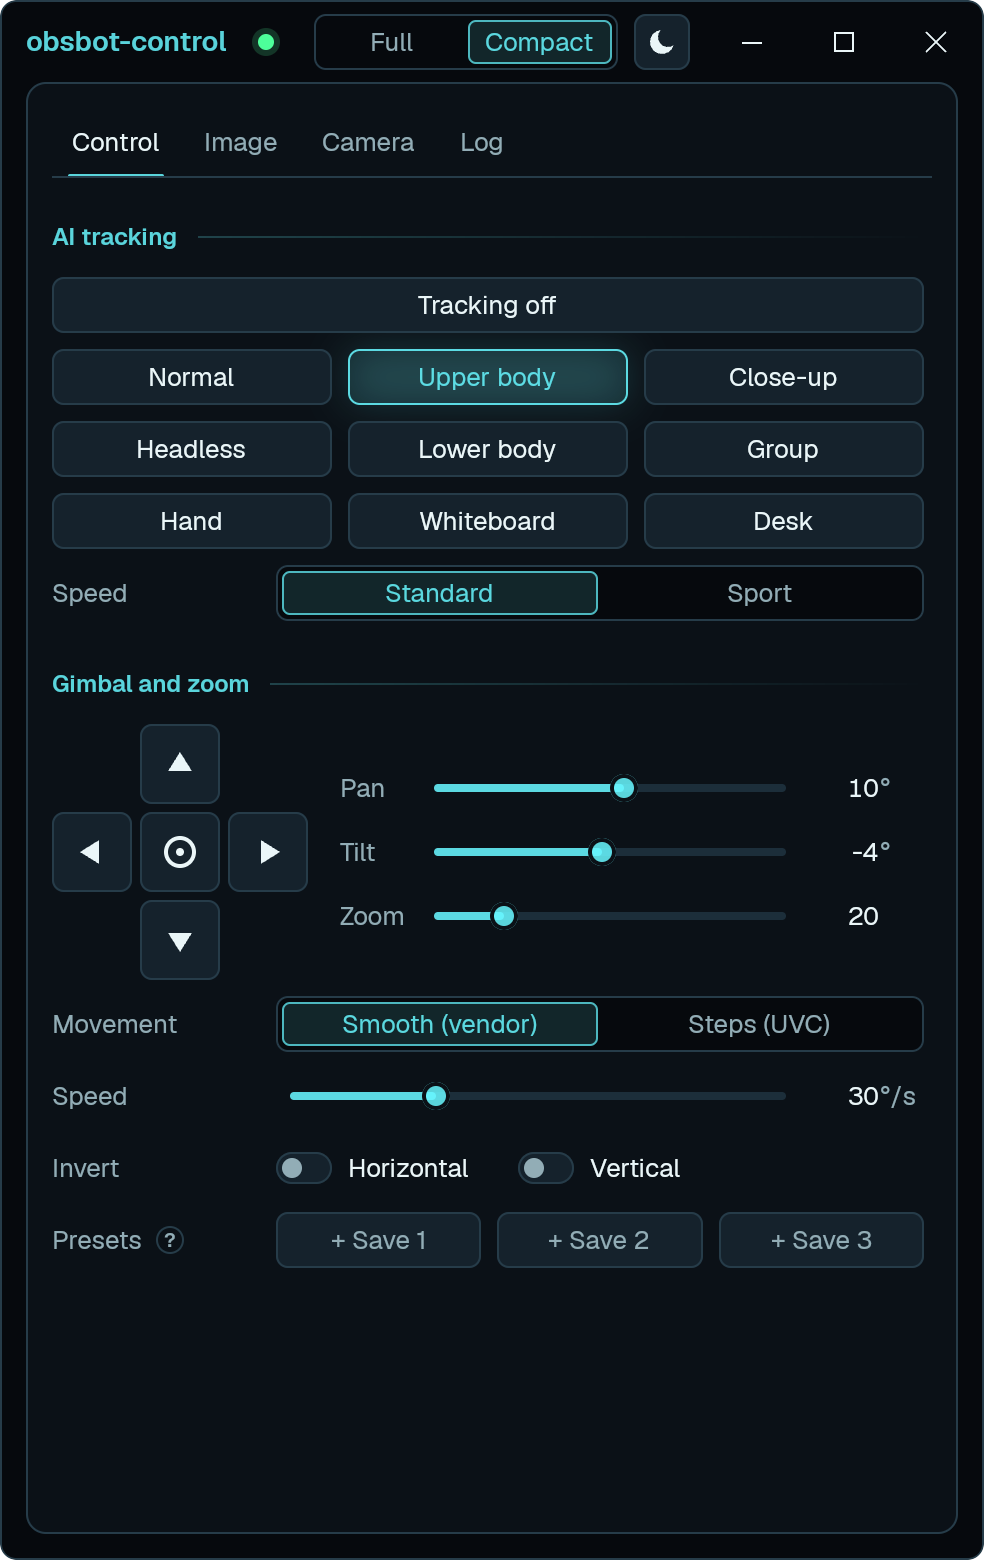
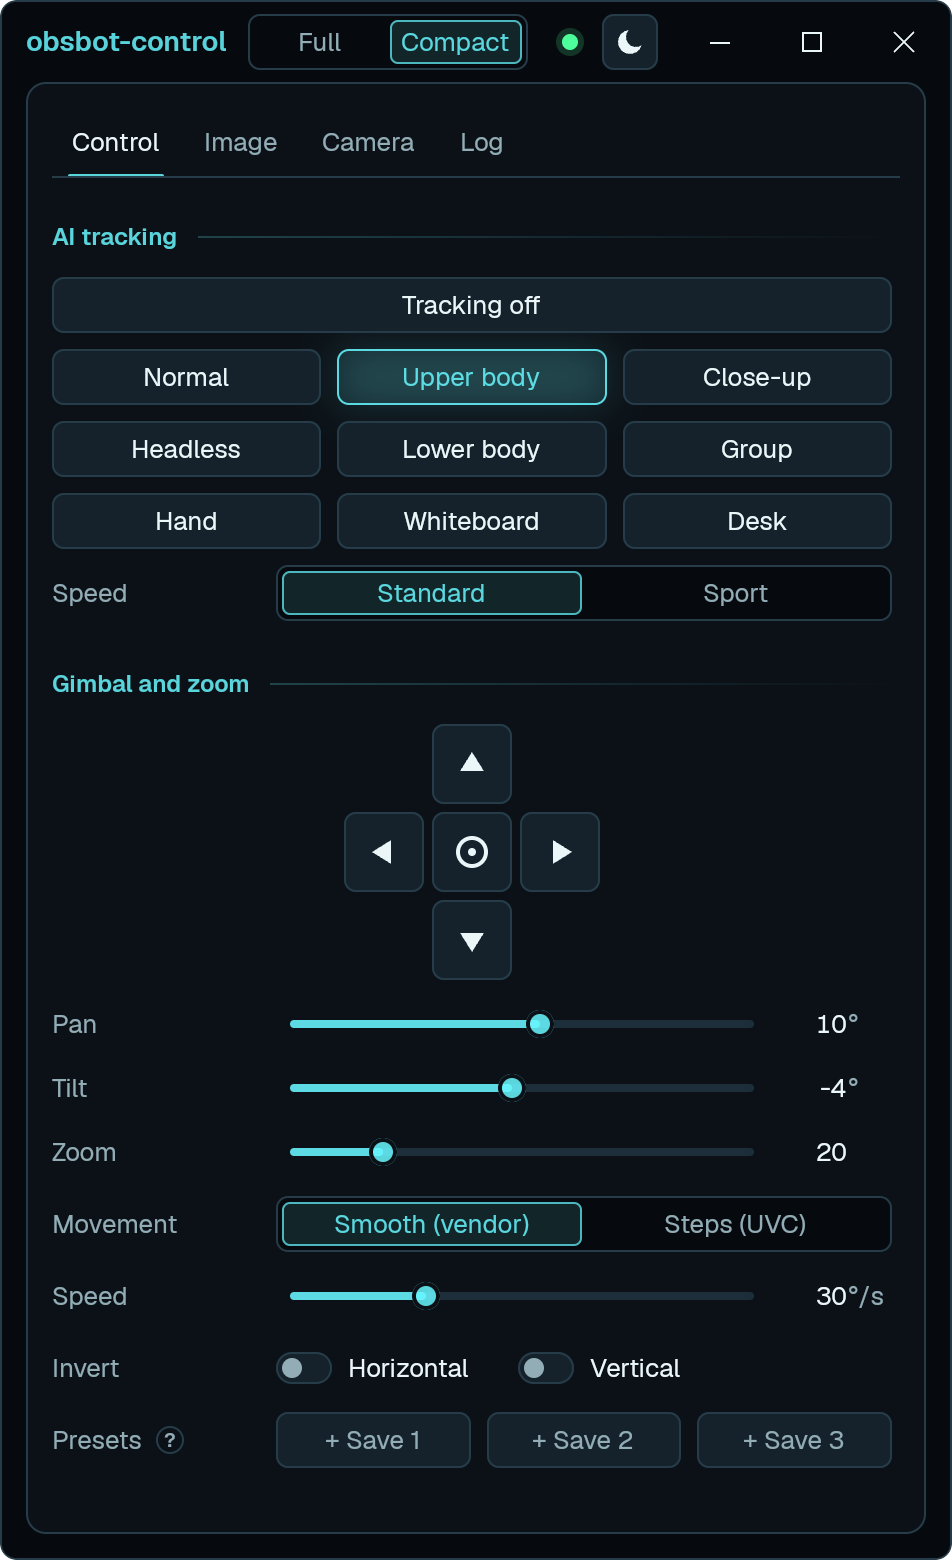
Put the controls on the left and narrow the panel
Switching between full and compact view moved the Full/Compact switch
away from the mouse: the window narrows from its right edge, and the
switch sat on the right of the header. The controls now sit on the
left with the preview on their right, and the switch sits just after
the app name, before the status (which changes width), so it stays in
the same place in both views. An app can't shrink its window from the left on
Wayland, so swapping the layout is the way that works everywhere.

Pan, tilt and zoom now sit below the arrow pad instead of beside it,
which fills the empty space at the bottom of the Control tab and lets
the panel shrink from 440 to 380 px. Compact view is 476 px wide, enough
for the whole header on one line.

README screenshots and the compact view checks in TESTING.md are
updated to match.

diff --git a/src/ui/mod.rs b/src/ui/mod.rs
@@ -786,7 +786,7 @@ impl AppView {
         let row = div().flex().items_center().min_h(px(CONTROL_HEIGHT)).child(label_cell(
             SharedString::from(format!("label-{c:?}")),
             label,
-            COMPACT_LABEL_WIDTH,
+            LABEL_WIDTH,
             None,
         ));
         if !u.supported {
@@ -991,11 +991,39 @@ impl AppView {
         let connected = s.connected;
         let xu = s.xu;
 
+        let views = ["Full", "Compact"];
+        let view_tips = [
+            "Show the preview beside the controls.",
+            "Hide the preview and narrow the window to the controls. Turns on by itself while another app (Zoom, Discord, Teams...) is using the camera, and off again when it stops.",
+        ];
+        // On the left, like the controls: the window's left edge stays put when it
+        // narrows or widens, so the switch stays under the mouse (COMPACT_WIDTH leaves
+        // room for it). Occluded, so clicks here never start a window drag.
+        let view_switch = div().id("view-switch").flex_none().w(px(140.0)).flex().occlude().child(segmented(
+            "view",
+            &views,
+            &view_tips,
+            Some(self.compact as usize),
+            true,
+            cx.listener(|this, i: &usize, window, cx| {
+                let compact = *i == 1;
+                if compact != this.compact {
+                    this.policy.on_manual_toggle();
+                    this.set_compact(compact);
+                    // Straight away, not on the next tick, so the click feels instant
+                    // and the preview starts while it slides in.
+                    this.begin_transition(window, cx);
+                    this.manage_preview(window);
+                    cx.notify();
+                }
+            }),
+        ));
+
         let left = div()
             .flex()
             .flex_1()
             .items_center()
-            .gap(px(if narrow { 8.0 } else { 10.0 }))
+            .gap(px(10.0))
             .min_w(px(0.0))
             .overflow_hidden()
             .child(
@@ -1006,6 +1034,9 @@ impl AppView {
                     .text_size(px(WORDMARK_SIZE))
                     .child("obsbot-control"),
             )
+            // Before the status, whose width changes, so the switch sits in the same
+            // place in both views.
+            .child(view_switch)
             .child(if narrow {
                 // Occluded so Windows doesn't treat it as part of the drag area, which
                 // would stop its tooltip showing.
@@ -1025,11 +1056,6 @@ impl AppView {
                 )
             });
 
-        let views = ["Full", "Compact"];
-        let view_tips = [
-            "Show the preview beside the controls.",
-            "Hide the preview and narrow the window to the controls. Turns on by itself while another app (Zoom, Discord, Teams...) is using the camera, and off again when it stops.",
-        ];
         let sleep_tip = if asleep { "Wake the camera." } else { "Put the camera to sleep." };
         // Occluded, so clicks here never start a window drag.
         let right = div()
@@ -1040,25 +1066,6 @@ impl AppView {
             .gap(px(8.0))
             .occlude()
             .when(picker && !narrow, |d| d.child(self.device_picker(cx)))
-            .child(div().w(px(152.0)).flex().child(segmented(
-                "view",
-                &views,
-                &view_tips,
-                Some(self.compact as usize),
-                true,
-                cx.listener(|this, i: &usize, window, cx| {
-                    let compact = *i == 1;
-                    if compact != this.compact {
-                        this.policy.on_manual_toggle();
-                        this.set_compact(compact);
-                        // Straight away, not on the next tick, so the click feels instant
-                        // and the preview starts while it slides in.
-                        this.begin_transition(window, cx);
-                        this.manage_preview(window);
-                        cx.notify();
-                    }
-                }),
-            )))
             .when(connected, |d| {
                 let toggle = move |this: &mut Self| this.worker.set_sleep(!asleep);
                 // Narrow headers get a moon icon (amber while asleep) instead of words.
@@ -1370,12 +1377,13 @@ impl Render for AppView {
                     .flex_1()
                     .min_h(px(0.0))
                     .gap(px(GAP))
-                    .child(div().flex().flex_1().min_w(px(160.0)).child(preview))
                     .child(controls.w(px(PANEL_WIDTH)))
+                    .child(div().flex().flex_1().min_w(px(160.0)).child(preview))
             } else {
-                // Switching views: the controls panel grows or shrinks between its two
-                // widths while the preview, kept at its full-view width so nothing
-                // reflows, is uncovered or slid under it and fades.
+                // Switching views: the controls panel on the left grows or shrinks
+                // between its two widths while the preview on its right, kept at its
+                // full-view width so nothing reflows, is uncovered or covered by the
+                // window's right edge and fades.
                 // When the window resizes, the ends are its compact and full-view widths;
                 // when it's maximised, the controls fill the screen in compact view.
                 let inset = frame.horizontal_inset();
@@ -1389,6 +1397,8 @@ impl Render for AppView {
                     .flex()
                     .flex_1()
                     .min_h(px(0.0))
+                    .child(controls.w(px(controls_width)))
+                    .child(div().flex_none().w(px(GAP * shown)))
                     .child(
                         div()
                             .flex()
@@ -1398,8 +1408,6 @@ impl Render for AppView {
                             .opacity(shown)
                             .child(div().flex().flex_none().w(px(preview_width)).child(preview)),
                     )
-                    .child(div().flex_none().w(px(GAP * shown)))
-                    .child(controls.w(px(controls_width)))
             }
         };
 

diff --git a/src/ui/tabs.rs b/src/ui/tabs.rs
@@ -176,16 +176,14 @@ impl AppView {
                 div().flex().gap(px(gap)).child(spacer()).child(arrow("down", Arrow::Down, 0, -1, cx)).child(spacer()),
             );
 
+        // Below the pad rather than beside it, so the panel can be narrower.
         let sliders = div()
             .flex()
             .flex_col()
-            .flex_1()
-            .min_w(px(0.0))
-            .justify_center()
             .gap(px(4.0))
             .child(self.angle_row(UvcCtl::Pan, "Pan", cx))
             .child(self.angle_row(UvcCtl::Tilt, "Tilt", cx))
-            .child(self.uvc_row(UvcCtl::Zoom, "Zoom", COMPACT_LABEL_WIDTH, false, true, cx));
+            .child(self.uvc_row(UvcCtl::Zoom, "Zoom", LABEL_WIDTH, false, true, cx));
 
         let smooth = self.settings.move_method == MOVE_GIMBAL_SPEED;
         let speed_row = div()
@@ -245,7 +243,8 @@ impl AppView {
             .flex_col()
             .gap(px(8.0))
             .child(section_title("Gimbal and zoom"))
-            .child(div().flex().items_center().gap(px(16.0)).child(pad).child(sliders))
+            .child(div().flex().justify_center().child(pad))
+            .child(sliders)
             .child(row(
                 "method-label",
                 "Movement",

diff --git a/src/ui/theme.rs b/src/ui/theme.rs
@@ -98,15 +98,14 @@ pub const CONTROL_RADIUS: f32 = 6.0;
 pub const CHIP_RADIUS: f32 = 4.0;
 /// Width of the label column in a control row.
 pub const LABEL_WIDTH: f32 = 112.0;
-/// The narrower label column beside the arrow pad.
-pub const COMPACT_LABEL_WIDTH: f32 = 40.0;
 /// Width of the value column (numbers are right-aligned in it).
 pub const VALUE_WIDTH: f32 = 40.0;
 /// Room after a number for its unit ("°/s"), so digits line up with or without one.
 pub const UNIT_WIDTH: f32 = 22.0;
 /// The controls panel in full view.
-pub const PANEL_WIDTH: f32 = 440.0;
+pub const PANEL_WIDTH: f32 = 380.0;
 /// Below this content width the header uses its short form (see `render_header`).
 pub const HEADER_WIDE: f32 = 700.0;
-/// The window's content width in compact view: the panel and some padding.
-pub const COMPACT_WIDTH: f32 = 492.0;
+/// The window's content width in compact view: the panel and some padding, and room
+/// in the header for the name, view switch, status dot, moon and window buttons.
+pub const COMPACT_WIDTH: f32 = 476.0;

diff --git a/docs/TESTING.md b/docs/TESTING.md
@@ -65,9 +65,10 @@ Some checks use the **Developer** tab. Turn it on with *Camera → Advanced → 
 - [ ] Click back into the app with no call running: the blurred picture shows "Starting preview..." and the
       live picture replaces it within a second or two.
 - [ ] Turn off *Camera → Pause preview*: the preview keeps running while another window is active.
-- [ ] Switch the header to *Compact* by hand: the window narrows smoothly while the preview slides under the
-      controls and fades out (under a fifth of a second, smooth at the screen's refresh rate). Switch back to *Full*: it widens to its earlier size
-      as the preview fades back in. No flicker or jumping.
+- [ ] Switch the header to *Compact* by hand: the window narrows smoothly from its right edge while the
+      preview fades out (under a fifth of a second, smooth at the screen's refresh rate). The controls and the
+      *Full*/*Compact* switch stay where they are. Without moving the mouse, switch back to *Full*: it widens
+      to its earlier size as the preview fades back in. No flicker or jumping.
 - [ ] During a call, switch back to *Full*: it stays in full view when the call ends.
 - [ ] Maximise the window, then start a call: it un-maximises and goes compact.
 - [ ] Move the window near the right edge of the screen in compact view, then go back to full view: the

diff --git a/README.md b/README.md
@@ -9,7 +9,7 @@ without OBSBOT Center. One file, fully offline, free and open source.
 
 [**Download**](../../releases/latest) · [Features](#features) · [Run it](#download-and-run) · [Build it](#building-from-source)
 
-<img src="docs/screenshots/full-view.png" alt="obsbot-control in full view: live preview on the left, AI tracking, gimbal and zoom controls on the right">
+<img src="docs/screenshots/full-view.png" alt="obsbot-control in full view: AI tracking, gimbal and zoom controls on the left, live preview on the right">
 
 </div>
 
